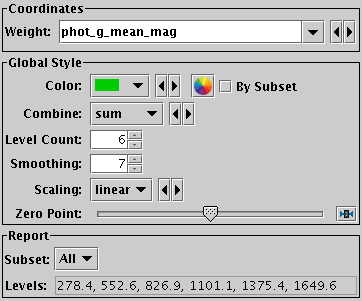
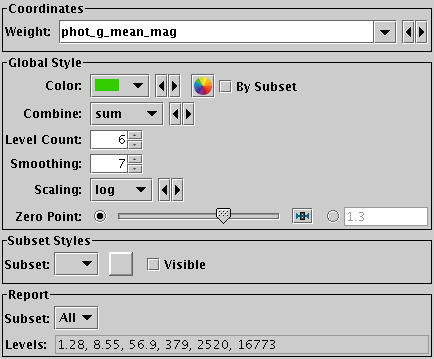
ttools: adjust contour level calculations
The contour levels were not getting calculated well in most cases
for low point densities.  That's because the levels were being
generated from the unsmoothed pixel density grid rather than the
smoothed grid in most cases, which is in turn because the smoothing
was done using a separable (Gaussian) smoothing kernel in 2 1-d
steps rather than 1 2-d step; that's faster but has a hard time
distinguishing between zero and missing values.
I was trying to work round that, but it turned out not to be very well,
so I adjusted the separable kernel smoothing so it calculates a
mask as well and can therefore distinguish between zero and missing
data in the smoothed grid.  That all means that the contour levels
work OK for low density grids.

That in turn made the default contour plots kind of ugly because the
levels tended to take in isolated points, so I adjusted the semantics
and default of the OFFSET (zero point) parameter as well - it's no
longer folded to the range 0..1, and it defaults to 1 rather than 0,
so that the first level is typically away from the zero value of
combination/density.

At the same time add a numeric view of the zero point value
alonside the slider.

The original issue was pointed out by Bertrand Goldman.

Changed region(s): [[0.0, 0.0, 1.0, 1.0]]

diff --git a/ttools/src/main/uk/ac/starlink/ttools/plot2/layer/ContourPlotter.java b/ttools/src/main/uk/ac/starlink/ttools/plot2/layer/ContourPlotter.java
@@ -28,6 +28,7 @@ import uk.ac.starlink.ttools.plot2.config.ConfigMeta;
 import uk.ac.starlink.ttools.plot2.config.DoubleConfigKey;
 import uk.ac.starlink.ttools.plot2.config.IntegerConfigKey;
 import uk.ac.starlink.ttools.plot2.config.OptionConfigKey;
+import uk.ac.starlink.ttools.plot2.config.SliderSpecifier;
 import uk.ac.starlink.ttools.plot2.config.StyleKeys;
 import uk.ac.starlink.ttools.plot2.data.Coord;
 import uk.ac.starlink.ttools.plot2.data.CoordGroup;
@@ -93,7 +94,7 @@ public class ContourPlotter extends AbstractPlotter<ContourStyle> {
                 "by a fixed amount) are drawn.",
                 "</p>",
             } )
-        , 0, -2, +2, false );
+        , 1, 0, 2, false, false, SliderSpecifier.TextOption.ENTER_ECHO );
 
     /** Config key for the smoothing combination mode. */
     public static final ConfigKey<Combiner> COMBINER_KEY =
@@ -229,8 +230,7 @@ public class ContourPlotter extends AbstractPlotter<ContourStyle> {
         Color color = config.get( StyleKeys.COLOR );
         int nlevel = config.get( NLEVEL_KEY );
 
-        /* Map offset to the range 0..1. */
-        double offset = ( ( config.get( OFFSET_KEY ) % 1 ) + 1 ) % 1;
+        double offset = config.get( OFFSET_KEY );
         int nsmooth = config.get( SMOOTH_KEY );
         LevelMode levMode = config.get( StyleKeys.LEVEL_MODE );
         Combiner combiner = weightCoord_ == null
@@ -439,23 +439,16 @@ public class ContourPlotter extends AbstractPlotter<ContourStyle> {
             Combiner combiner = style_.getCombiner();
             LevelMode lmode = style_.getLevelMode();
 
-            /* Calculate the levels from the data.  In general it makes
-             * sense to do that using the smoothed grid, since that's
-             * what is going to get plotted.  However, if the combiner
-             * is extensive, then blank areas outside of the smoothing width
-             * in the raw grid will have been converted to zero values
-             * in the smoothed grid.  All those zeroes are indistinguishable
-             * from real data, and can cause the level calculation to
-             * give unhelpful results.  So for extensive combiners, use
-             * the raw grid, which will contain NaNs for blank areas,
-             * to assign levels.  To a first order, it should give the
-             * same results as the smoothed one. */
-            NumberGrid grid = combiner.getType().isExtensive()
-                            ? plan.rawGrid_
-                            : plan.smoothGrid_;
-            boolean isCounts = ! hasWeight_
-                            || combiner.equals( Combiner.COUNT )
-                            || combiner.equals( Combiner.HIT );
+            /* Calculate the levels from the data.  We use the smoothed grid
+             * here since that's what's going to get plotted.
+             * To get the levels right it's important that the grid values
+             * are NaN and not just zero where there is no data
+             * (no contribution from the smoothed input grid). */
+            NumberGrid grid = plan.smoothGrid_;
+            boolean isCounts = plan.smooth_ == 1 
+                            && ( ! hasWeight_
+                                 || combiner.equals( Combiner.COUNT )
+                                 || combiner.equals( Combiner.HIT ) );
             double[] levels = lmode
                              .calculateLevels( grid, style_.getLevelCount(),
                                                style_.getOffset(), isCounts );
@@ -542,7 +535,7 @@ public class ContourPlotter extends AbstractPlotter<ContourStyle> {
      *
      * @param   inGrid  original grid data
      * @param   smooth   smoothing parameter
-     * @return  smoothed grid data
+     * @return  smoothed grid data, NaNs where no input contribution
      */
     private static NumberGrid smoothSum( NumberGrid inGrid, int smooth ) {
         Gridder gridder = inGrid.gridder_;
@@ -556,11 +549,19 @@ public class ContourPlotter extends AbstractPlotter<ContourStyle> {
 
         /* Since the Gaussian kernel is separable and we are just summing the
          * results, we can do two 1-d convolutions, which scales much
-         * better than one 2-d convolution.  Blank values in the input
-         * grid, which correspond to values with no input contributions,
+         * better than one 2-d convolution.
+         * When doing it like this, blank values in the input grid,
+         * which correspond to values with no input contributions,
          * just don't contribute (equivalent to contributing at zero weight)
-         * to output pixels. */
+         * to output pixels.  It's important (when calculating levels)
+         * that zero values are indistinguishable from values with no data,
+         * so we need to do extra work to write NaNs where there are no
+         * input contributions.  We do it by effectively convolving a mask
+         * (blank=0, non-blank=1) with the same kernel.
+         * Anywhere the mask convolution ends up zero corresponds to
+         * no input data contribution. */
         double[] a1 = new double[ npix ];
+        double[] b1 = new double[ npix ];
         for ( int qx = 0; qx < smooth; qx++ ) {
             double k = kernel[ qx ];
             int px = qx - smooth / 2;
@@ -571,12 +572,15 @@ public class ContourPlotter extends AbstractPlotter<ContourStyle> {
                     int jx = ix - px;
                     double d = inGrid.getValue( gridder.getIndex( jx, iy ) );
                     if ( ! Double.isNaN( d ) ) {
-                        a1[ gridder.getIndex( ix, iy ) ] += k * d;
+                        int index1 = gridder.getIndex( ix, iy );
+                        a1[ index1 ] += k * d;
+                        b1[ index1 ] += k;
                     }
                 }
             }
         }
         double[] a2 = new double[ npix ];
+        double[] b2 = new double[ npix ];
         for ( int qy = 0; qy < smooth; qy++ ) {
             double k = kernel[ qy ];
             int py = qy - smooth / 2;
@@ -585,14 +589,17 @@ public class ContourPlotter extends AbstractPlotter<ContourStyle> {
             for ( int iy = iy0; iy < iy1; iy++ ) {
                 for ( int ix = 0; ix < nx; ix++ ) {
                     int jy = iy - py;
-                    a2[ gridder.getIndex( ix, iy ) ] +=
-                        k * a1[ gridder.getIndex( ix, jy ) ];
+                    int index2 = gridder.getIndex( ix, iy );
+                    int index1 = gridder.getIndex( ix, jy );
+                    a2[ index2 ] += k * a1[ index1 ];
+                    b2[ index2 ] += k * b1[ index1 ];
                 }
             }
         }
         final double[] out = a2;
+        final double[] mask = b2;
 
-        /* Normalise. */
+        /* Calculate the normalisation factor. */
         double sk = 0;
         for ( int i = 0; i < smooth; i++ ) {
             for ( int j = 0; j < smooth; j++ ) {
@@ -600,8 +607,13 @@ public class ContourPlotter extends AbstractPlotter<ContourStyle> {
             }
         }
         double factor = 1.0 / sk;
+
+        /* For each value in the convolved grid: apply the normalisation
+         * factor if the mask says it had contributions from the input,
+         * or set it NaN if the mask says it had no contributions. */
         for ( int i = 0; i < out.length; i++ ) {
-            out[ i ] *= factor;
+            out[ i ] = mask[ i ] > 0 ? out[ i ] * factor
+                                     : Double.NaN;
         }
 
         /* Return the result as a NumberGrid. */
@@ -617,7 +629,7 @@ public class ContourPlotter extends AbstractPlotter<ContourStyle> {
      *
      * @param  inGrid  input grid
      * @param  smooth  smoothing kernel size
-     * @return  smoothed grid
+     * @return  smoothed grid data, NaNs where no input contribution
      */
     private static NumberGrid smoothMean( NumberGrid inGrid, int smooth ) {
         Gridder gridder = inGrid.gridder_;
@@ -803,6 +815,8 @@ public class ContourPlotter extends AbstractPlotter<ContourStyle> {
 
     /**
      * Partial NumberArray implementation that knows about grid geometry.
+     * Note that the values must be NaN where there is no input data,
+     * not zero.
      */
     private static abstract class NumberGrid implements NumberArray {
         final Gridder gridder_;
@@ -878,6 +892,10 @@ public class ContourPlotter extends AbstractPlotter<ContourStyle> {
                 return this;
             }
             else {
+
+                /* Note that the smoothed grid, like the raw grid, must have
+                 * NaNs for missing data not zeros, otherwise contour level
+                 * calculation won't work correctly. */
                 final NumberGrid sgrid;
                 if ( smooth == 1 ) {
                     sgrid = rawGrid_;

diff --git a/ttools/src/main/uk/ac/starlink/ttools/plot2/layer/ContourStyle.java b/ttools/src/main/uk/ac/starlink/ttools/plot2/layer/ContourStyle.java
@@ -27,8 +27,7 @@ public class ContourStyle implements Style {
      *
      * @param  color  contour line colour
      * @param  nLevel  number of contours
-     * @param  offset  offset from zero of first contour;
-     *                 should be in the range 0..1
+     * @param  offset  offset from zero of first contour
      * @param  nSmooth  smoothing kernel width
      * @param  levelMode  level determination algorithm
      * @param  combiner   combination mode
@@ -64,7 +63,7 @@ public class ContourStyle implements Style {
     /**
      * Returns the offset of the first contour from zero.
      *
-     * @return  zero offset, expected in the range 0..1
+     * @return  zero offset
      */
     public double getOffset() {
         return offset_;

diff --git a/ttools/src/main/uk/ac/starlink/ttools/build/Plot2Example.java b/ttools/src/main/uk/ac/starlink/ttools/build/Plot2Example.java
@@ -1018,7 +1018,7 @@ public class Plot2Example {
                 "*x=phot_g_mean_mag", "*y=phot_g_mean_flux_error", null,
                 "ylog=true", "xmax=14", "ymin=10", null,
                 "layer1=mark", "shading1=density", "densemap1=greyscale", null,
-                "*layer2=contour", "*scaling2=log",
+                "*layer2=contour", "*scaling2=log", "*nlevel=6",
             } ),
             new Plot2Example( "layer-grid", c, PlotTask.PLANE, new String[] {
                 "*layer1=grid", "*in1=" + TName.HESS,
